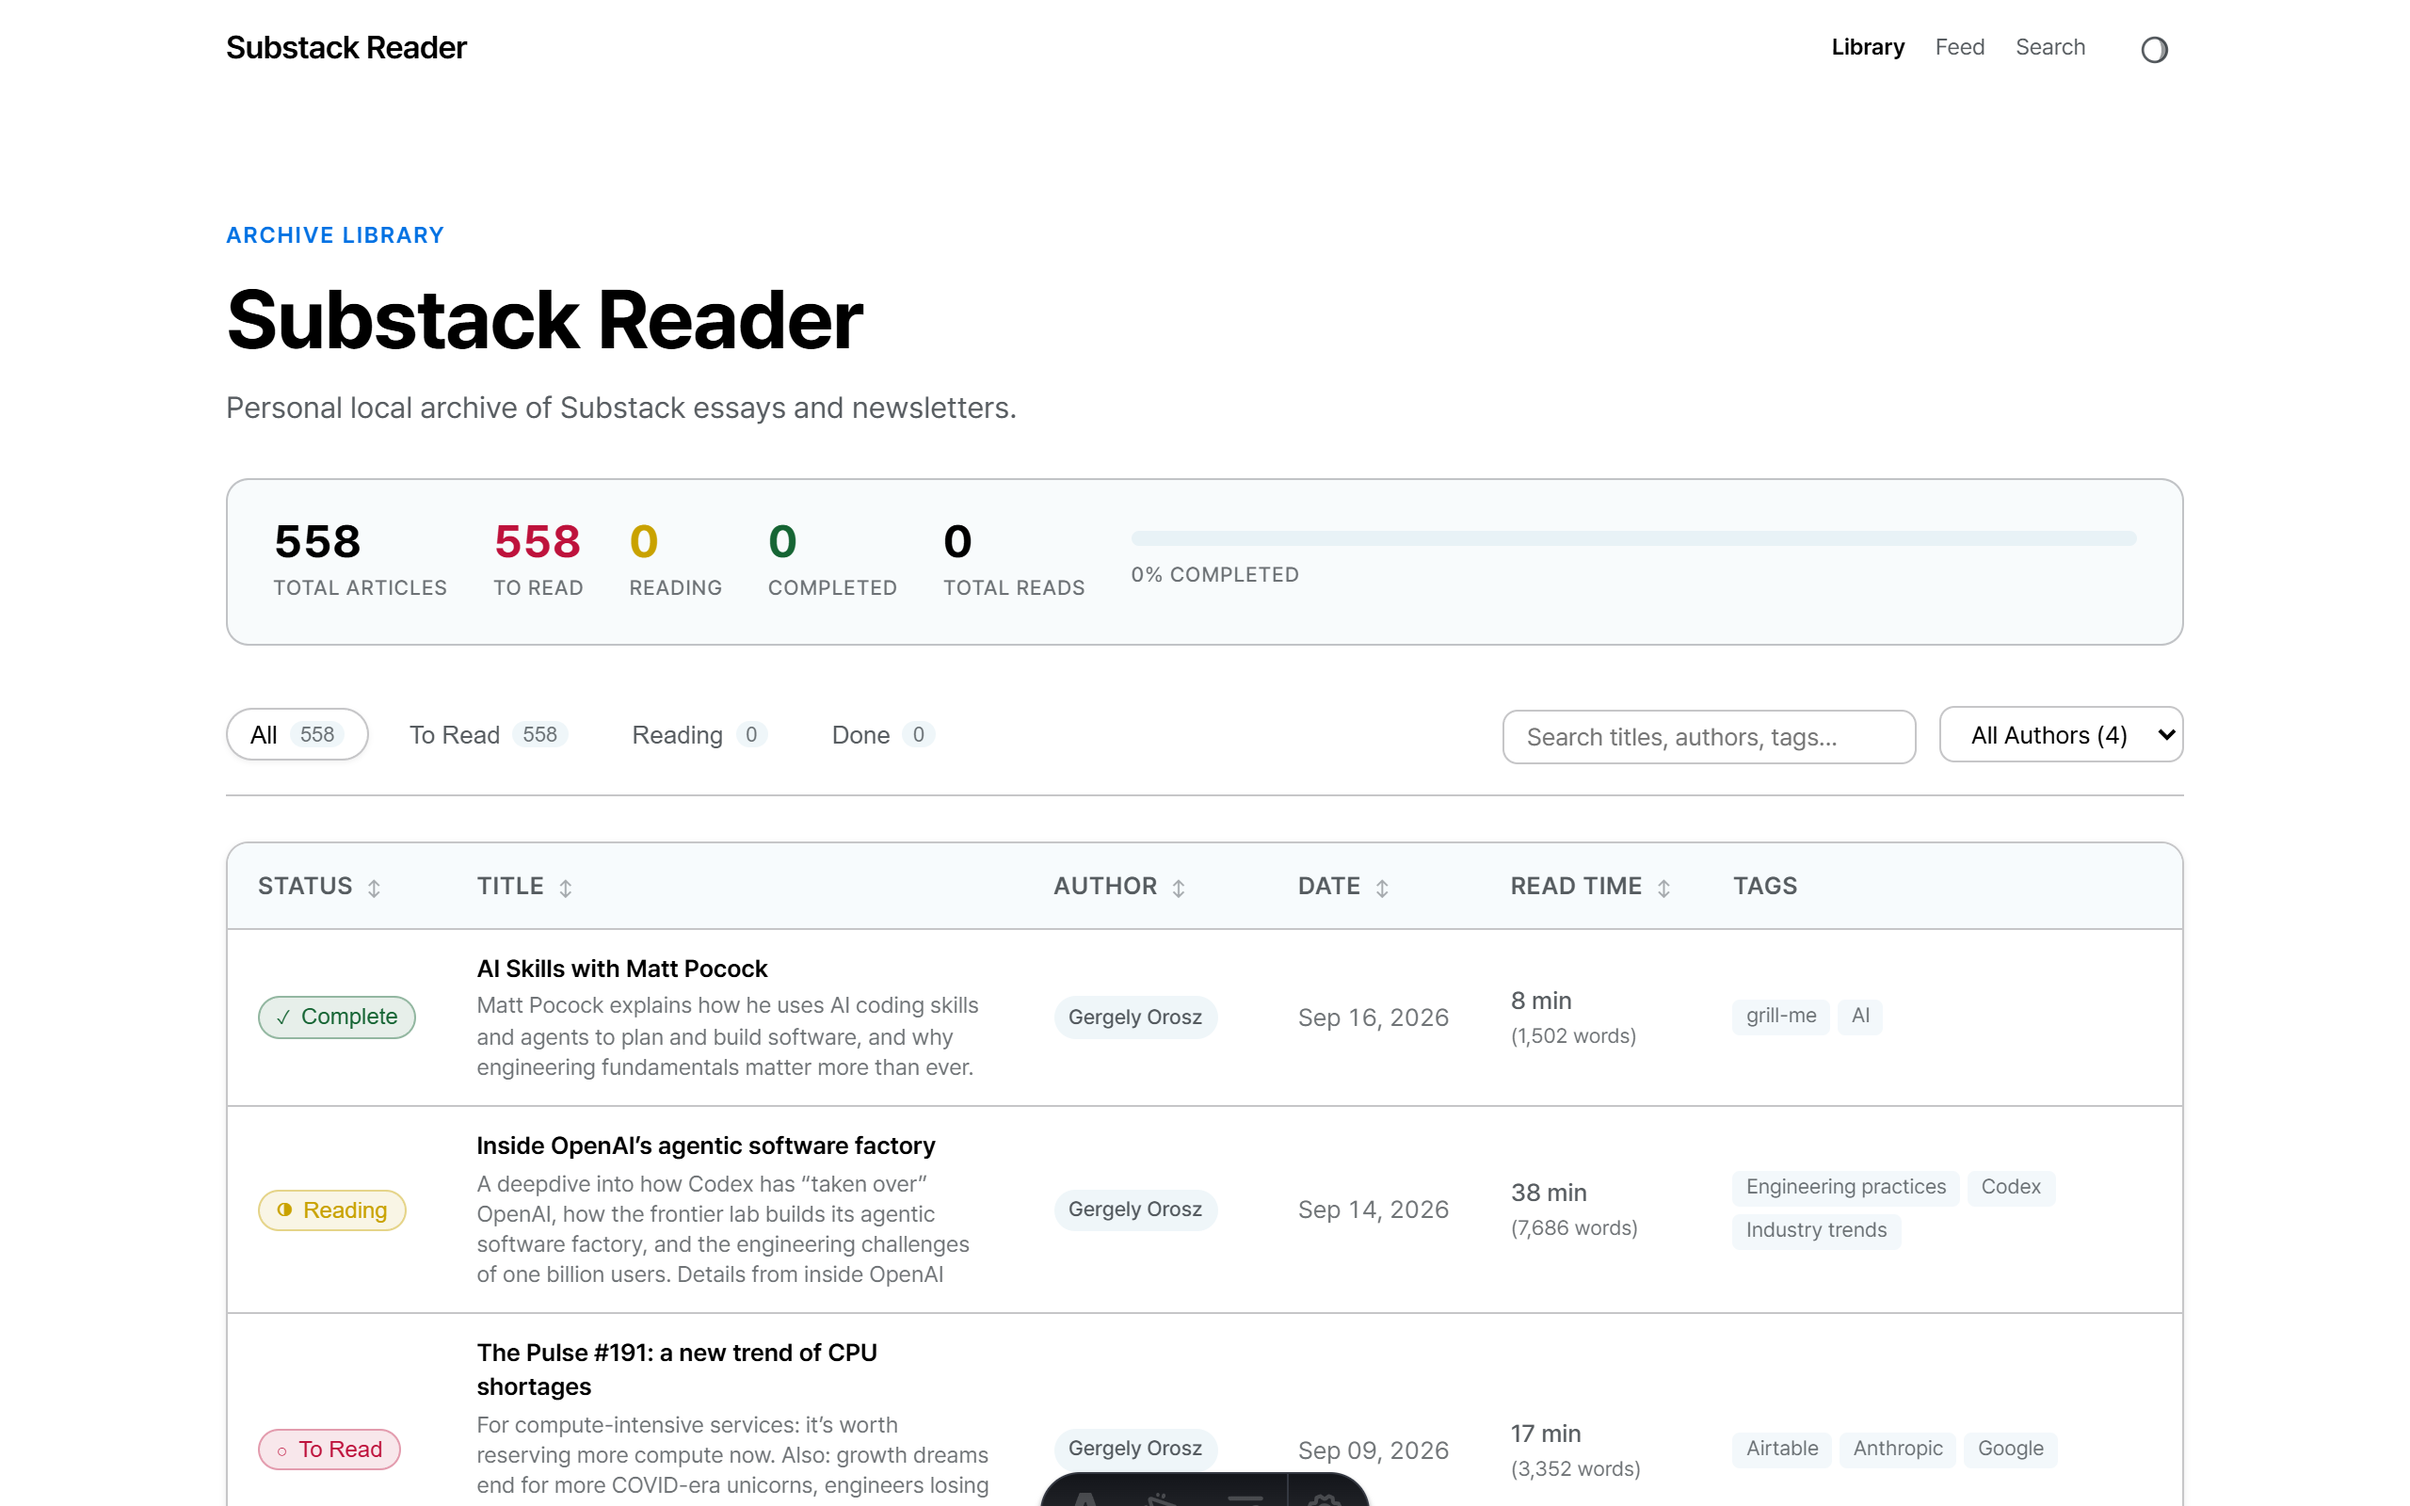
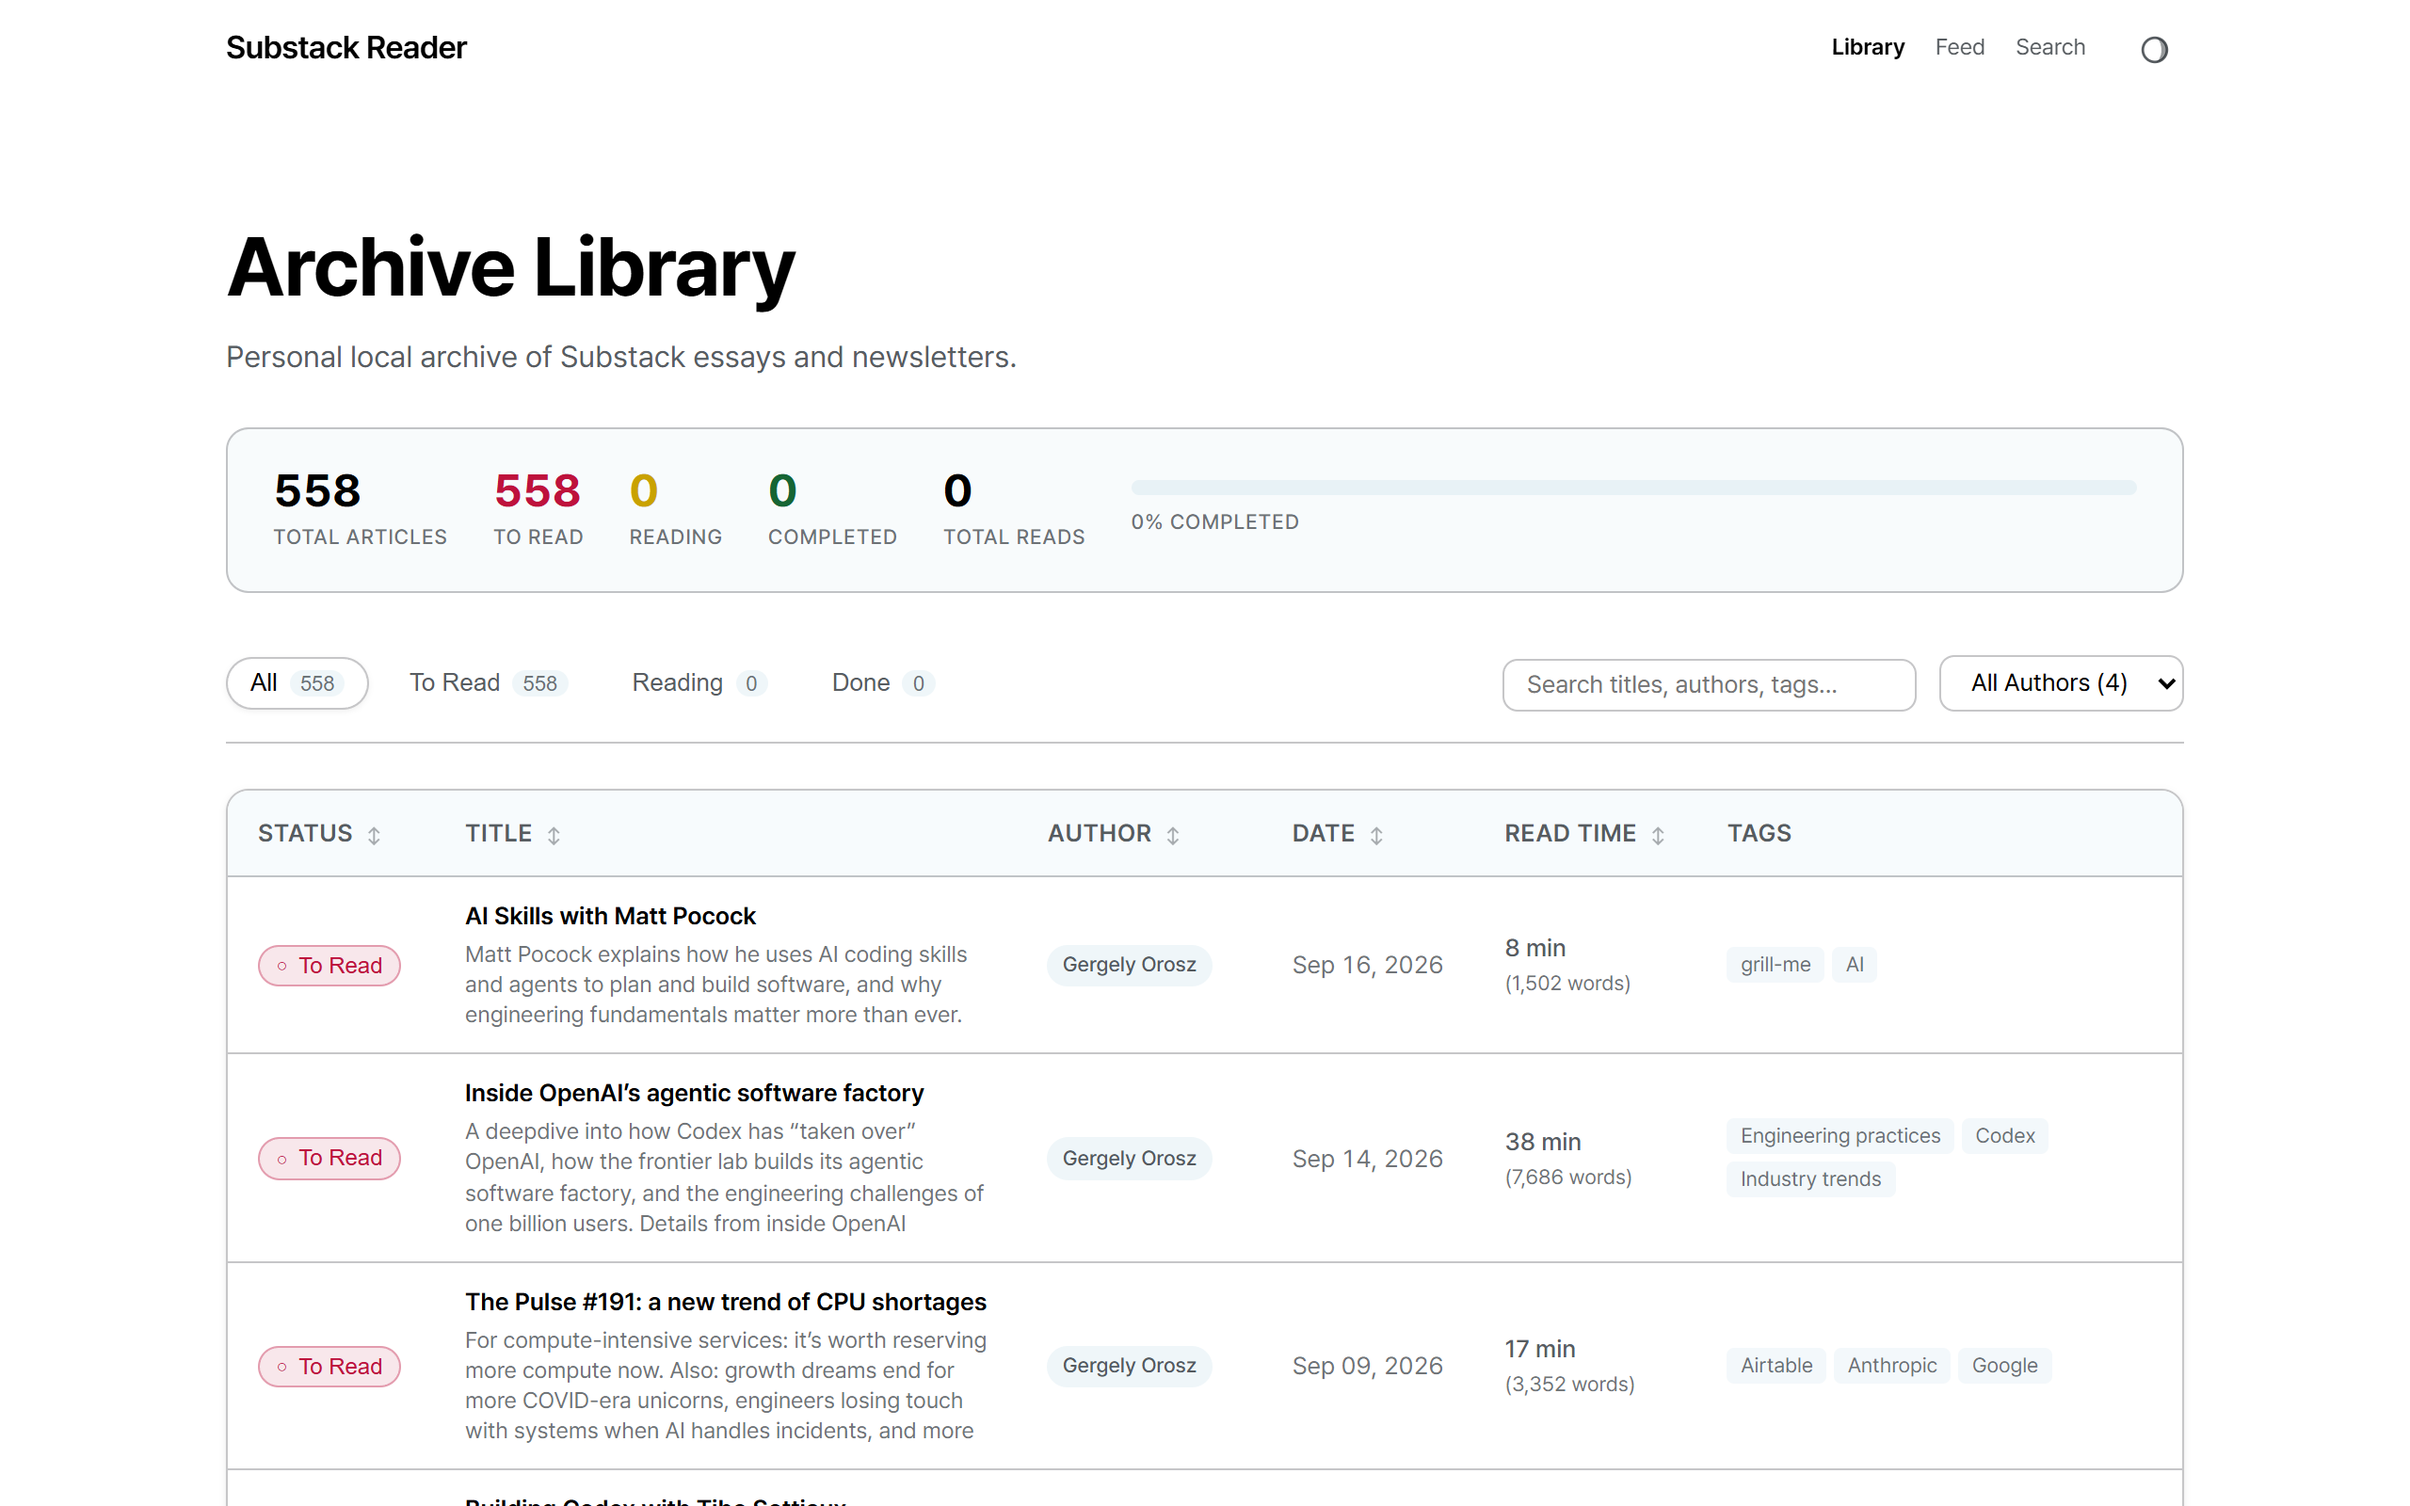
refactor: streamline library hero header and eliminate duplicate site title

diff --git a/scripts/capture_previews.py b/scripts/capture_previews.py
@@ -1,0 +1,178 @@
+#!/usr/bin/env python3
+"""Capture high-resolution preview screenshots for the Substack2Markdown documentation.
+
+This script connects to the local Astro reader dev server and uses Playwright
+to generate crisp 2x Retina screenshots of both the Library table view and the
+individual Article reading view.
+
+Usage:
+    uv run python scripts/capture_previews.py
+    uv run python scripts/capture_previews.py --only library
+    uv run python scripts/capture_previews.py --only post --post-slug 20-years-of-software-engineering
+"""
+
+from __future__ import annotations
+
+import argparse
+import logging
+import os
+import sys
+import urllib.error
+import urllib.request
+
+from playwright.sync_api import sync_playwright
+
+from scraper.browser import BrowserManager
+
+logging.basicConfig(level=logging.INFO, format="%(levelname)s: %(message)s")
+logger = logging.getLogger(__name__)
+
+DEFAULT_BASE_URL = "http://localhost:4321"
+DEFAULT_POST_PATH = "pragmaticengineer/posts/20-years-of-software-engineering"
+REPO_ROOT = os.path.dirname(os.path.dirname(os.path.abspath(__file__)))
+DEFAULT_OUTPUT_DIR = os.path.join(REPO_ROOT, "reader", "public")
+
+
+def _is_server_reachable(url: str, timeout_sec: float = 3.0) -> bool:
+    """Check if the local dev server is active and returning HTTP 200."""
+    try:
+        req = urllib.request.Request(url, headers={"User-Agent": "SubstackScreenshotBot/1.0"})
+        with urllib.request.urlopen(req, timeout=timeout_sec) as response:
+            return response.status == 200
+    except (urllib.error.URLError, TimeoutError, OSError):
+        return False
+
+
+def _resolve_post_path(slug_or_path: str) -> str:
+    """Resolve an article route path (supporting collection ID or bare slug)."""
+    if "/" in slug_or_path:
+        return slug_or_path.strip("/")
+
+    # Search content directory for author-nested path
+    content_dir = os.path.join(REPO_ROOT, "content")
+    if os.path.isdir(content_dir):
+        for author in sorted(os.listdir(content_dir)):
+            posts_dir = os.path.join(content_dir, author, "posts")
+            if os.path.isdir(posts_dir):
+                for file in sorted(os.listdir(posts_dir)):
+                    base_name = os.path.splitext(file)[0]
+                    if base_name == slug_or_path:
+                        return f"{author}/posts/{base_name}"
+
+    return slug_or_path
+
+
+def capture_screenshots(
+    base_url: str = DEFAULT_BASE_URL,
+    post_slug: str = DEFAULT_POST_PATH,
+    output_dir: str = DEFAULT_OUTPUT_DIR,
+    browser_name: str = "edge",
+    targets: tuple[str, ...] = ("library", "post"),
+) -> None:
+    """Capture library and post preview screenshots using Playwright."""
+    clean_base = base_url.rstrip("/")
+
+    if not _is_server_reachable(clean_base):
+        logger.error(
+            "Local Astro reader server is not reachable at %s.\n"
+            "Please start the dev server first:\n"
+            "    cd reader && pnpm dev",
+            clean_base,
+        )
+        sys.exit(1)
+
+    os.makedirs(output_dir, exist_ok=True)
+
+    with sync_playwright() as playwright:
+        channel = BrowserManager.resolve_channel(browser_name, playwright)
+        if not channel:
+            logger.error("Neither Chrome nor Edge could be found on this system.")
+            sys.exit(1)
+
+        logger.info("Launching %s browser for preview generation...", channel)
+        browser = playwright.chromium.launch(channel=channel, headless=True)
+
+        context = browser.new_context(
+            viewport={"width": 1280, "height": 800},
+            device_scale_factor=2,
+        )
+        page = context.new_page()
+
+        # 1. Capture Library Preview
+        if "library" in targets:
+            page.set_viewport_size({"width": 1280, "height": 800})
+            library_url = f"{clean_base}/"
+            library_out = os.path.join(output_dir, "library-preview.png")
+            logger.info("Capturing Library view: %s -> %s", library_url, library_out)
+
+            page.goto(library_url, wait_until="networkidle")
+            page.wait_for_selector("[data-reading-table]", timeout=10000)
+            page.wait_for_timeout(1000)  # Allow stats bar & font metrics to settle
+            page.screenshot(path=library_out)
+            logger.info("Saved %s", library_out)
+
+        # 2. Capture Article Preview (with Left Reading Rail and Right TOC Rail)
+        if "post" in targets:
+            page.set_viewport_size({"width": 1440, "height": 900})
+            resolved_path = _resolve_post_path(post_slug)
+            post_url = f"{clean_base}/posts/{resolved_path}/"
+            post_out = os.path.join(output_dir, "post-preview.png")
+            logger.info("Capturing Article view: %s -> %s", post_url, post_out)
+
+            page.goto(post_url, wait_until="networkidle")
+            page.wait_for_selector("main", timeout=10000)
+            page.wait_for_selector(".rail-ticks", timeout=10000)
+            page.wait_for_selector(".toc-rail", timeout=10000)
+            page.wait_for_timeout(1000)  # Allow reading rails and code blocks to hydrate
+            page.screenshot(path=post_out)
+            logger.info("Saved %s", post_out)
+
+        browser.close()
+        logger.info("All requested preview screenshots captured successfully.")
+
+
+def main() -> None:
+    """Parse CLI arguments and run preview capture."""
+    parser = argparse.ArgumentParser(description="Capture Astro reader documentation preview screenshots.")
+    parser.add_argument(
+        "--url",
+        default=DEFAULT_BASE_URL,
+        help=f"Base URL of running Astro reader (default: {DEFAULT_BASE_URL})",
+    )
+    parser.add_argument(
+        "--post-slug",
+        default=DEFAULT_POST_PATH,
+        help=f"Post slug or collection path to screenshot for article view (default: {DEFAULT_POST_PATH})",
+    )
+    parser.add_argument(
+        "--output-dir",
+        default=DEFAULT_OUTPUT_DIR,
+        help=f"Destination directory for screenshots (default: {DEFAULT_OUTPUT_DIR})",
+    )
+    parser.add_argument(
+        "--browser",
+        choices=["edge", "chrome"],
+        default="edge",
+        help="Browser channel to use (default: edge)",
+    )
+    parser.add_argument(
+        "--only",
+        choices=["library", "post", "all"],
+        default="all",
+        help="Which screenshots to capture (default: all)",
+    )
+
+    args = parser.parse_args()
+    targets = ("library", "post") if args.only == "all" else (args.only,)
+
+    capture_screenshots(
+        base_url=args.url,
+        post_slug=args.post_slug,
+        output_dir=args.output_dir,
+        browser_name=args.browser,
+        targets=targets,
+    )
+
+
+if __name__ == "__main__":
+    main()

diff --git a/.agents/issues/stm-024-streamline-library-hero-header.md b/.agents/issues/stm-024-streamline-library-hero-header.md
@@ -1,0 +1,49 @@
+# Streamline Library Hero Header and Eliminate Redundant Title
+
+## Problem Description
+
+On the Astro reader home page (`/`), the branding string **"Substack Reader"** (`SITE_TITLE`) was rendered twice in close vertical proximity:
+1. In the top sticky navigation header (`Header.astro`) as the application logo brand link.
+2. In the hero section (`index.astro`) right above the reading stats card, preceded by an uppercase `"ARCHIVE LIBRARY"` eyebrow badge.
+
+This resulted in redundant visual repetition on the home page:
+```
+[Substack Reader]                 Library  Feed  Search
+ARCHIVE LIBRARY
+Substack Reader
+Personal local archive of Substack essays and newsletters.
+```
+
+## Proposed Solution / Root Cause
+
+Promote the functional title `"Archive Library"` directly into the page's primary `<h1>` element, eliminating the redundant `{SITE_TITLE}` hero heading and the superfluous `.eyebrow-accent` element:
+```
+[Substack Reader]                 Library  Feed  Search
+Archive Library
+Personal local archive of Substack essays and newsletters.
+```
+
+Benefits:
+- Eliminates the repetitive "Substack Reader" branding between the top navigation bar and the hero block.
+- Establishes a clean information hierarchy: the top navbar identifies the Application (`Substack Reader`), while the `<h1>` identifies the View (`Archive Library`).
+- Reduces vertical header clutter, pulling the reading stats bar and article table higher up above the fold.
+
+## Changes Made
+
+- `reader/src/pages/index.astro`:
+  - Promoted `"Archive Library"` into `<h1 class="page-title">`.
+  - Removed redundant `<p class="eyebrow-accent">` and `{SITE_TITLE}` hero heading.
+  - Cleaned up unused `.eyebrow-accent` CSS rules from `<style>`.
+- `reader/public/library-preview.png`:
+  - Regenerated high-resolution preview screenshot (2560x1600) reflecting the streamlined non-repetitive hero layout.
+- `reader/public/post-preview.png`:
+  - Regenerated high-resolution preview screenshot (2880x1800) capturing both the left reading tick rail and the right TOC outline rail.
+- `scripts/capture_previews.py`:
+  - Reusable Playwright automation script to capture both Library and Article preview screenshots on demand with device scaling, responsive viewports, and hydration selectors.
+
+## Verification
+
+- **Vitest**: All 84 unit tests passing (`cd reader && pnpm test`).
+- **Astro Check**: 0 errors, 0 warnings across 55 files (`cd reader && npx astro check`).
+- **Python Linter & Pytest**: `ruff check` / `ruff format --check` passing; all 82 pytest tests passing.
+- **Visual Verification**: Inspected `library-preview.png` and `post-preview.png`, confirming header streamlining and right rail TOC outline visibility.

diff --git a/.agents/README.md b/.agents/README.md
@@ -29,6 +29,7 @@ Unified, chronological index of all retroactively created issues and plans mappe
 | **`stm-021`** | **Issue** | `fix` | Playwright Navigation Interruption Handling and Transient Page Fetch Retry | [`issues/stm-021-playwright-navigation-interruption-and-timeout-retry.md`](issues/stm-021-playwright-navigation-interruption-and-timeout-retry.md) |
 | **`stm-022`** | **Issue** | `refactor` | Rename package and CLI from `substack_scraper` to `scraper` | [`issues/stm-022-rename-package-to-scraper.md`](issues/stm-022-rename-package-to-scraper.md) |
 | **`stm-023`** | **Plan** | `feat` | Restore Table View State and Row Anchor on Back-Navigation | [`plans/stm-023-restore-table-state-and-anchor.md`](plans/stm-023-restore-table-state-and-anchor.md) |
+| **`stm-024`** | **Issue** | `refactor` | Streamline Library Hero Header and Eliminate Duplicate Site Title | [`issues/stm-024-streamline-library-hero-header.md`](issues/stm-024-streamline-library-hero-header.md) |
 
 ---
 
